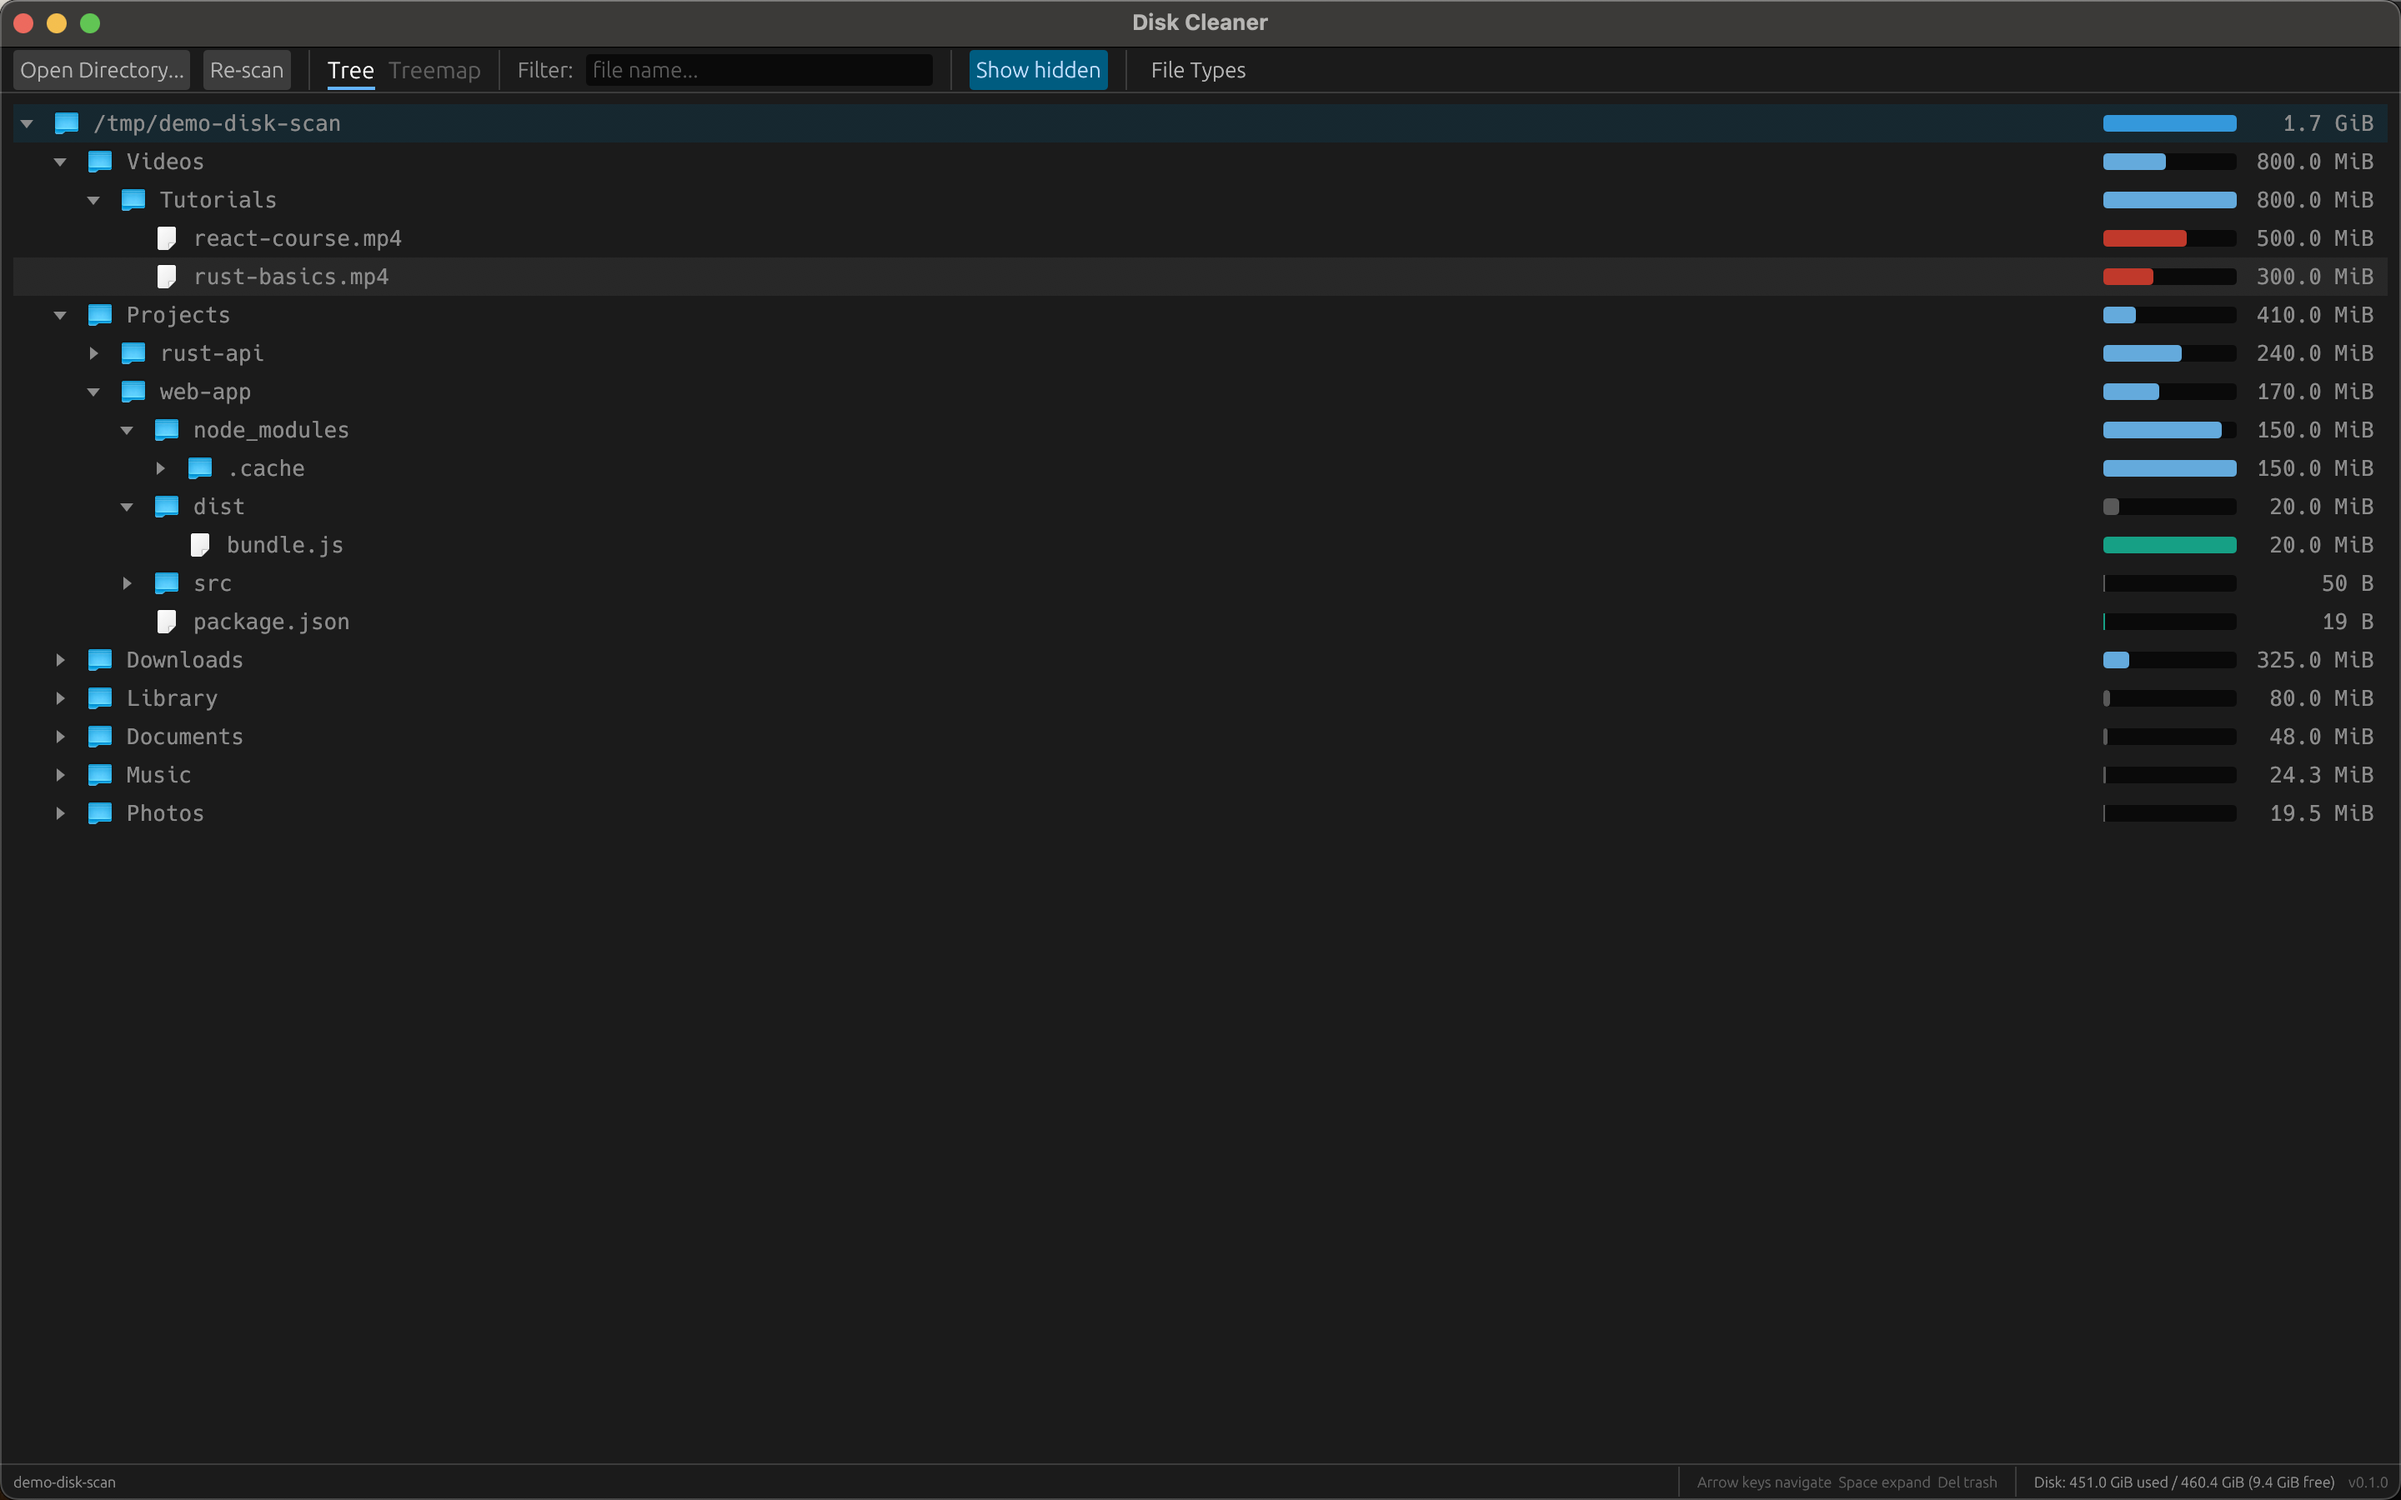
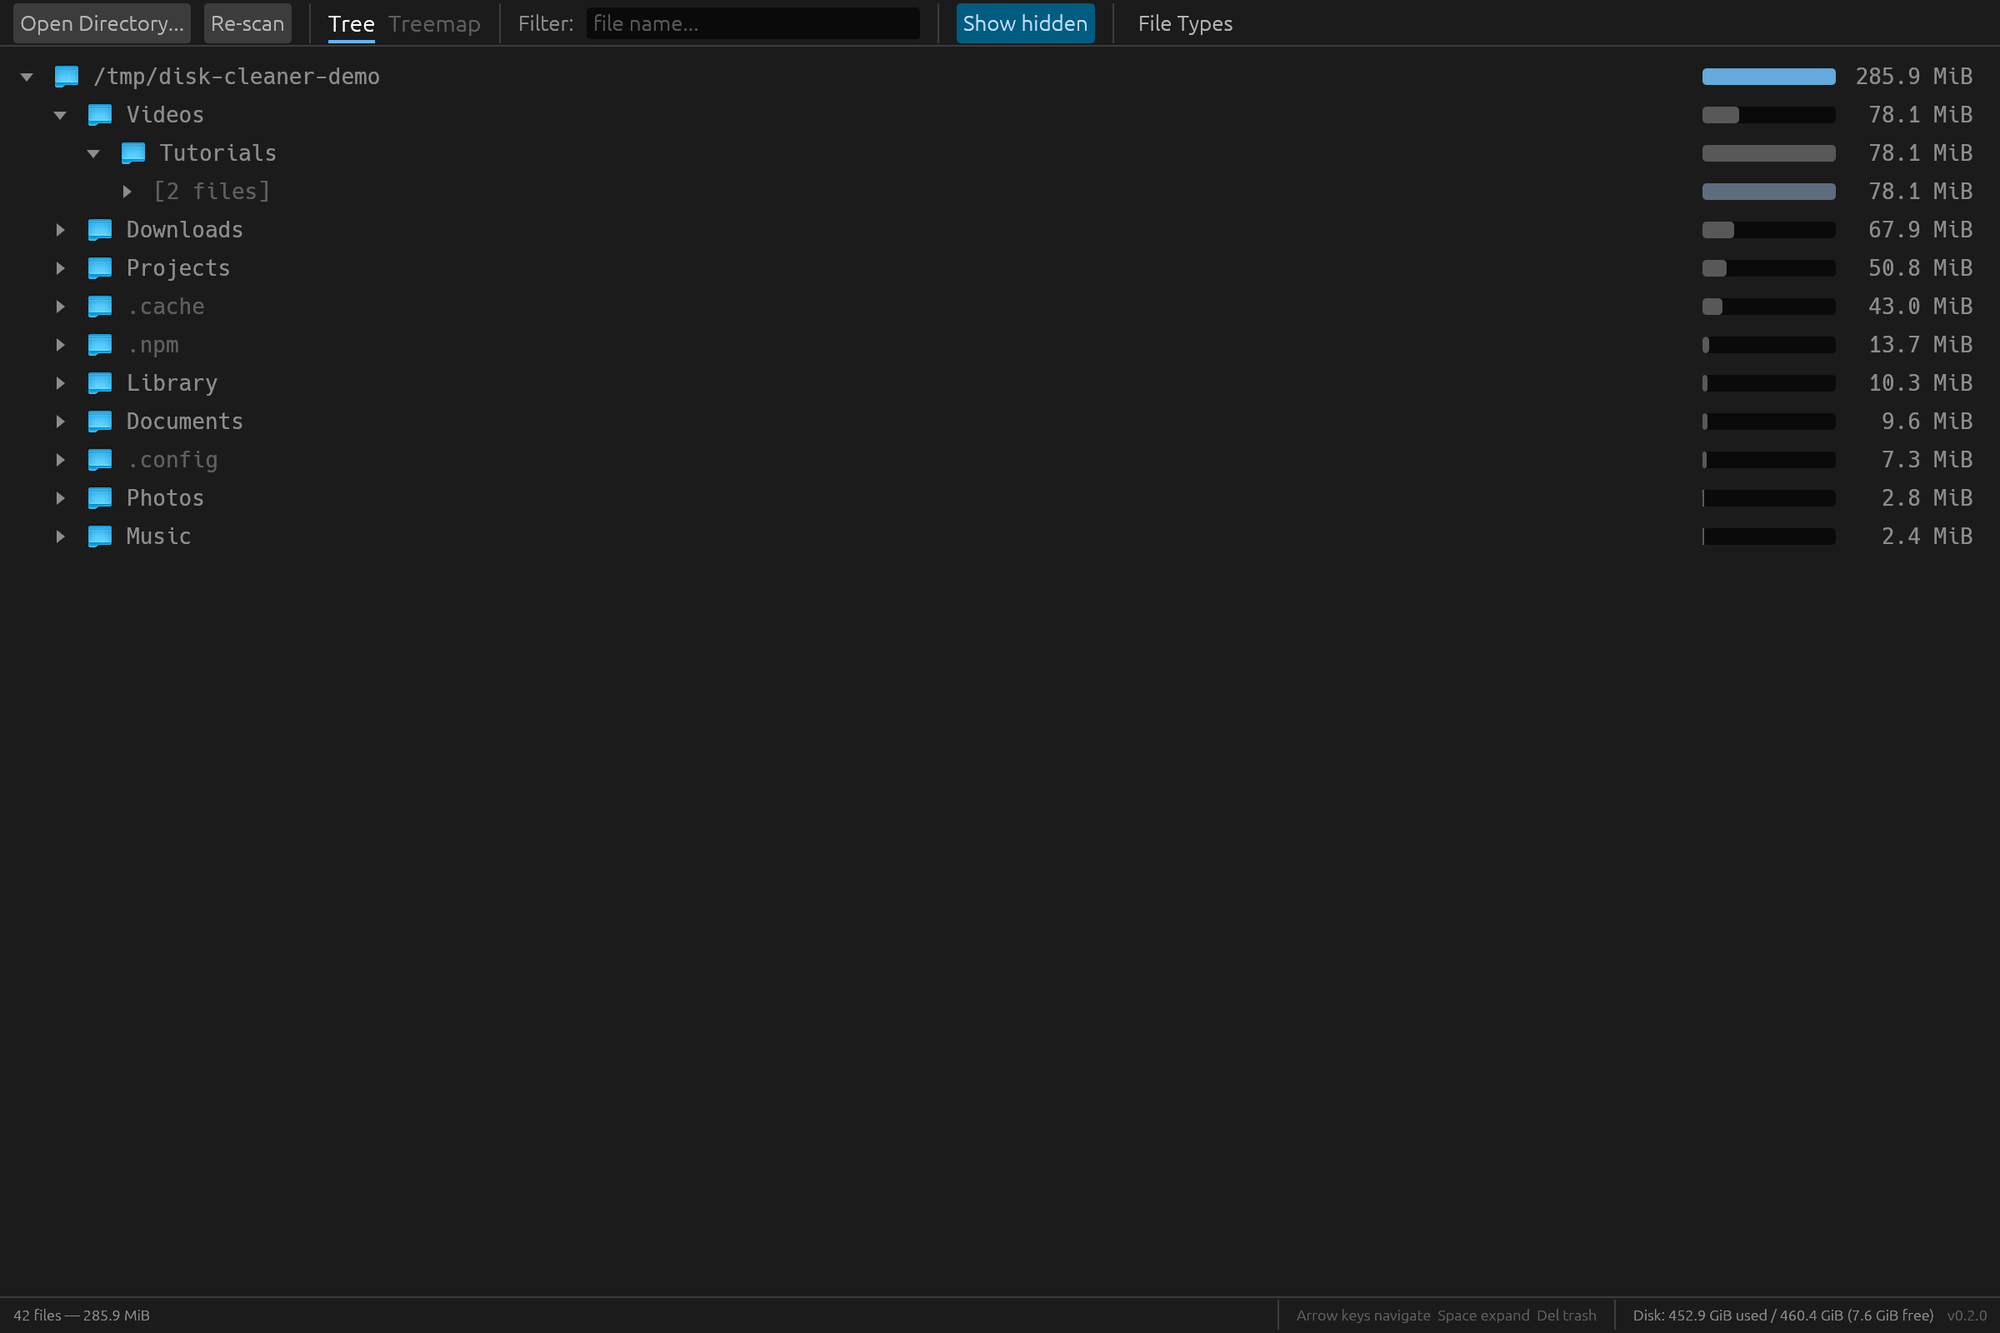
chore: update screenshots with hidden folders and file grouping (#28)
- Force show_hidden=true in screenshot mode so hidden directories appear
- Update all screenshots in docs/screenshots/ with current UI
- Add scripts/create_demo_data.sh for reproducible demo data
- Remove unreferenced old docs/screenshot.png and docs/screenshot_scan.png

diff --git a/src/main.rs b/src/main.rs
@@ -157,6 +157,9 @@ fn main() -> eframe::Result {
                 },
                 ..Default::default()
             };
+            if app.screenshot_prefix.is_some() {
+                app.show_hidden = true;
+            }
             if let Some(path) = initial_path {
                 app.start_scan(path);
             }
